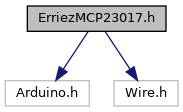
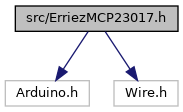
Deploy Erriez/ErriezMCP23017 to github.com/Erriez/ErriezMCP23017.git:gh-pages

Changed region(s): [[0.0546, 0.0268, 0.9836, 0.2946]]

diff --git a/files.html b/files.html
@@ -66,9 +66,10 @@ $(function() {
 </div><!--header-->
 <div class="contents">
 <div class="textblock">Here is a list of all documented files with brief descriptions:</div><div class="directory">
-<table class="directory">
-<tr id="row_0_" class="even"><td class="entry"><span style="width:16px;display:inline-block;">&#160;</span><a href="_erriez_m_c_p23017_8cpp_source.html"><span class="icondoc"></span></a><b>ErriezMCP23017.cpp</b></td><td class="desc"></td></tr>
-<tr id="row_1_"><td class="entry"><span style="width:16px;display:inline-block;">&#160;</span><a href="_erriez_m_c_p23017_8h_source.html"><span class="icondoc"></span></a><a class="el" href="_erriez_m_c_p23017_8h.html" target="_self">ErriezMCP23017.h</a></td><td class="desc">MCP23017 I2C IO expander library for Arduino </td></tr>
+<div class="levels">[detail level <span onclick="javascript:toggleLevel(1);">1</span><span onclick="javascript:toggleLevel(2);">2</span>]</div><table class="directory">
+<tr id="row_0_" class="even"><td class="entry"><span style="width:0px;display:inline-block;">&#160;</span><span id="arr_0_" class="arrow" onclick="toggleFolder('0_')">&#9660;</span><span id="img_0_" class="iconfopen" onclick="toggleFolder('0_')">&#160;</span><a class="el" href="dir_68267d1309a1af8e8297ef4c3efbcdba.html" target="_self">src</a></td><td class="desc"></td></tr>
+<tr id="row_0_0_"><td class="entry"><span style="width:32px;display:inline-block;">&#160;</span><a href="_erriez_m_c_p23017_8cpp_source.html"><span class="icondoc"></span></a><b>ErriezMCP23017.cpp</b></td><td class="desc"></td></tr>
+<tr id="row_0_1_" class="even"><td class="entry"><span style="width:32px;display:inline-block;">&#160;</span><a href="_erriez_m_c_p23017_8h_source.html"><span class="icondoc"></span></a><a class="el" href="_erriez_m_c_p23017_8h.html" target="_self">ErriezMCP23017.h</a></td><td class="desc">MCP23017 I2C IO expander library for Arduino </td></tr>
 </table>
 </div><!-- directory -->
 </div><!-- contents -->

diff --git a/_erriez_m_c_p23017_8h.html b/_erriez_m_c_p23017_8h.html
@@ -5,7 +5,7 @@
 <meta http-equiv="X-UA-Compatible" content="IE=9"/>
 <meta name="generator" content="Doxygen 1.8.13"/>
 <meta name="viewport" content="width=device-width, initial-scale=1"/>
-<title>Erriez MCP23017 library for Arduino: ErriezMCP23017.h File Reference</title>
+<title>Erriez MCP23017 library for Arduino: src/ErriezMCP23017.h File Reference</title>
 <link href="tabs.css" rel="stylesheet" type="text/css"/>
 <script type="text/javascript" src="jquery.js"></script>
 <script type="text/javascript" src="dynsections.js"></script>
@@ -80,16 +80,16 @@ $(function() {
 </div><div class="textblock"><div class="dynheader">
 Include dependency graph for ErriezMCP23017.h:</div>
 <div class="dyncontent">
-<div class="center"><img src="_erriez_m_c_p23017_8h__incl.png" border="0" usemap="#_erriez_m_c_p23017_8h" alt=""/></div>
-<map name="_erriez_m_c_p23017_8h" id="_erriez_m_c_p23017_8h">
+<div class="center"><img src="_erriez_m_c_p23017_8h__incl.png" border="0" usemap="#src_2_erriez_m_c_p23017_8h" alt=""/></div>
+<map name="src_2_erriez_m_c_p23017_8h" id="src_2_erriez_m_c_p23017_8h">
 </map>
 </div>
 </div><div class="textblock"><div class="dynheader">
 This graph shows which files directly or indirectly include this file:</div>
 <div class="dyncontent">
-<div class="center"><img src="_erriez_m_c_p23017_8h__dep__incl.png" border="0" usemap="#_erriez_m_c_p23017_8hdep" alt=""/></div>
-<map name="_erriez_m_c_p23017_8hdep" id="_erriez_m_c_p23017_8hdep">
-<area shape="rect" id="node2" href="_erriez_m_c_p23017_8cpp_source.html" title="ErriezMCP23017.cpp" alt="" coords="5,80,160,107"/>
+<div class="center"><img src="_erriez_m_c_p23017_8h__dep__incl.png" border="0" usemap="#src_2_erriez_m_c_p23017_8hdep" alt=""/></div>
+<map name="src_2_erriez_m_c_p23017_8hdep" id="src_2_erriez_m_c_p23017_8hdep">
+<area shape="rect" id="node2" href="_erriez_m_c_p23017_8cpp_source.html" title="src/ErriezMCP23017.cpp" alt="" coords="5,80,183,107"/>
 </map>
 </div>
 </div>

diff --git a/class_erriez_m_c_p23017.html b/class_erriez_m_c_p23017.html
@@ -960,8 +960,8 @@ uint16_t&#160;</td><td class="memItemRight" valign="bottom"><a class="el" href="
 </div>
 </div>
 <hr/>The documentation for this class was generated from the following files:<ul>
-<li><a class="el" href="_erriez_m_c_p23017_8h_source.html">ErriezMCP23017.h</a></li>
-<li><a class="el" href="_erriez_m_c_p23017_8cpp_source.html">ErriezMCP23017.cpp</a></li>
+<li>src/<a class="el" href="_erriez_m_c_p23017_8h_source.html">ErriezMCP23017.h</a></li>
+<li>src/<a class="el" href="_erriez_m_c_p23017_8cpp_source.html">ErriezMCP23017.cpp</a></li>
 </ul>
 </div><!-- contents -->
 <!-- start footer part -->

diff --git a/_erriez_m_c_p23017_8cpp_source.html b/_erriez_m_c_p23017_8cpp_source.html
@@ -5,7 +5,7 @@
 <meta http-equiv="X-UA-Compatible" content="IE=9"/>
 <meta name="generator" content="Doxygen 1.8.13"/>
 <meta name="viewport" content="width=device-width, initial-scale=1"/>
-<title>Erriez MCP23017 library for Arduino: ErriezMCP23017.cpp Source File</title>
+<title>Erriez MCP23017 library for Arduino: src/ErriezMCP23017.cpp Source File</title>
 <link href="tabs.css" rel="stylesheet" type="text/css"/>
 <script type="text/javascript" src="jquery.js"></script>
 <script type="text/javascript" src="dynsections.js"></script>

diff --git a/_erriez_m_c_p23017_8h_source.html b/_erriez_m_c_p23017_8h_source.html
@@ -5,7 +5,7 @@
 <meta http-equiv="X-UA-Compatible" content="IE=9"/>
 <meta name="generator" content="Doxygen 1.8.13"/>
 <meta name="viewport" content="width=device-width, initial-scale=1"/>
-<title>Erriez MCP23017 library for Arduino: ErriezMCP23017.h Source File</title>
+<title>Erriez MCP23017 library for Arduino: src/ErriezMCP23017.h Source File</title>
 <link href="tabs.css" rel="stylesheet" type="text/css"/>
 <script type="text/javascript" src="jquery.js"></script>
 <script type="text/javascript" src="dynsections.js"></script>
